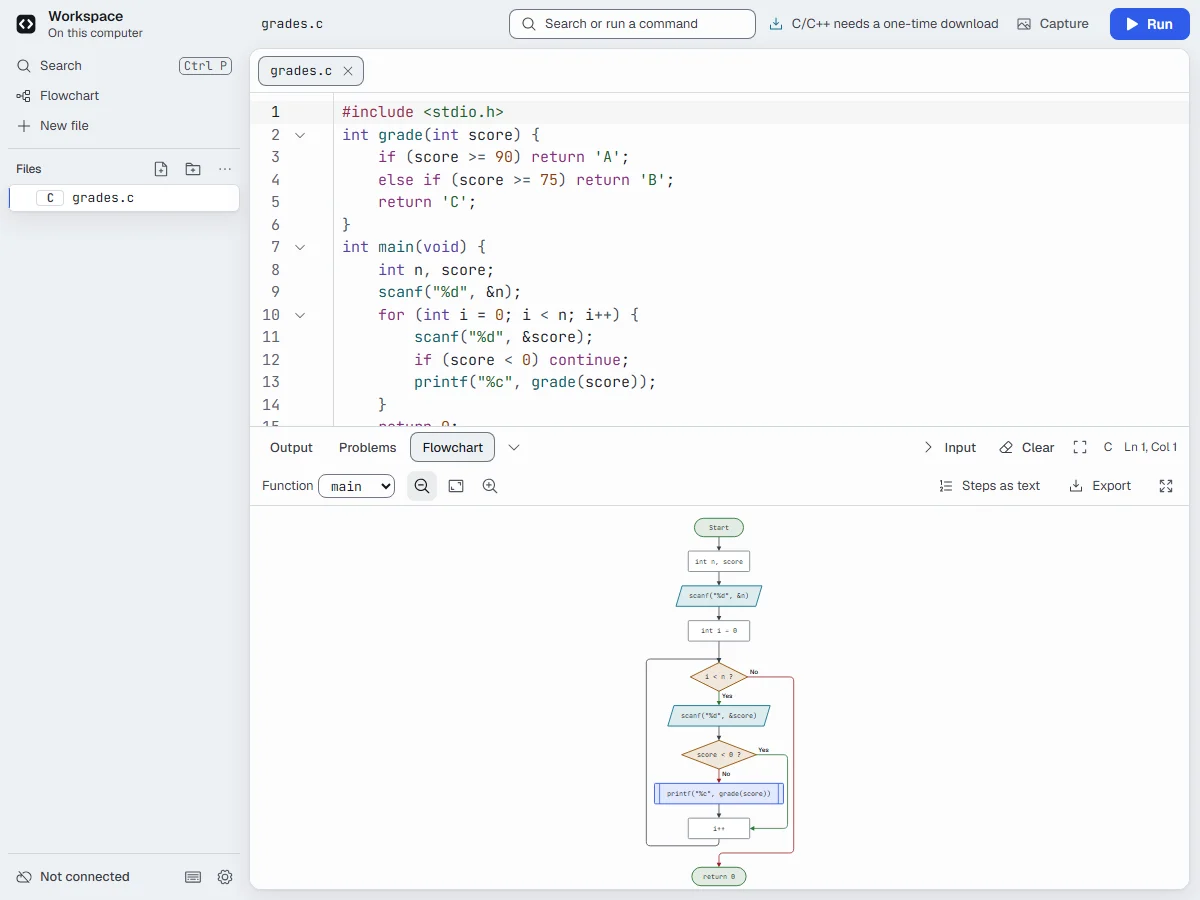
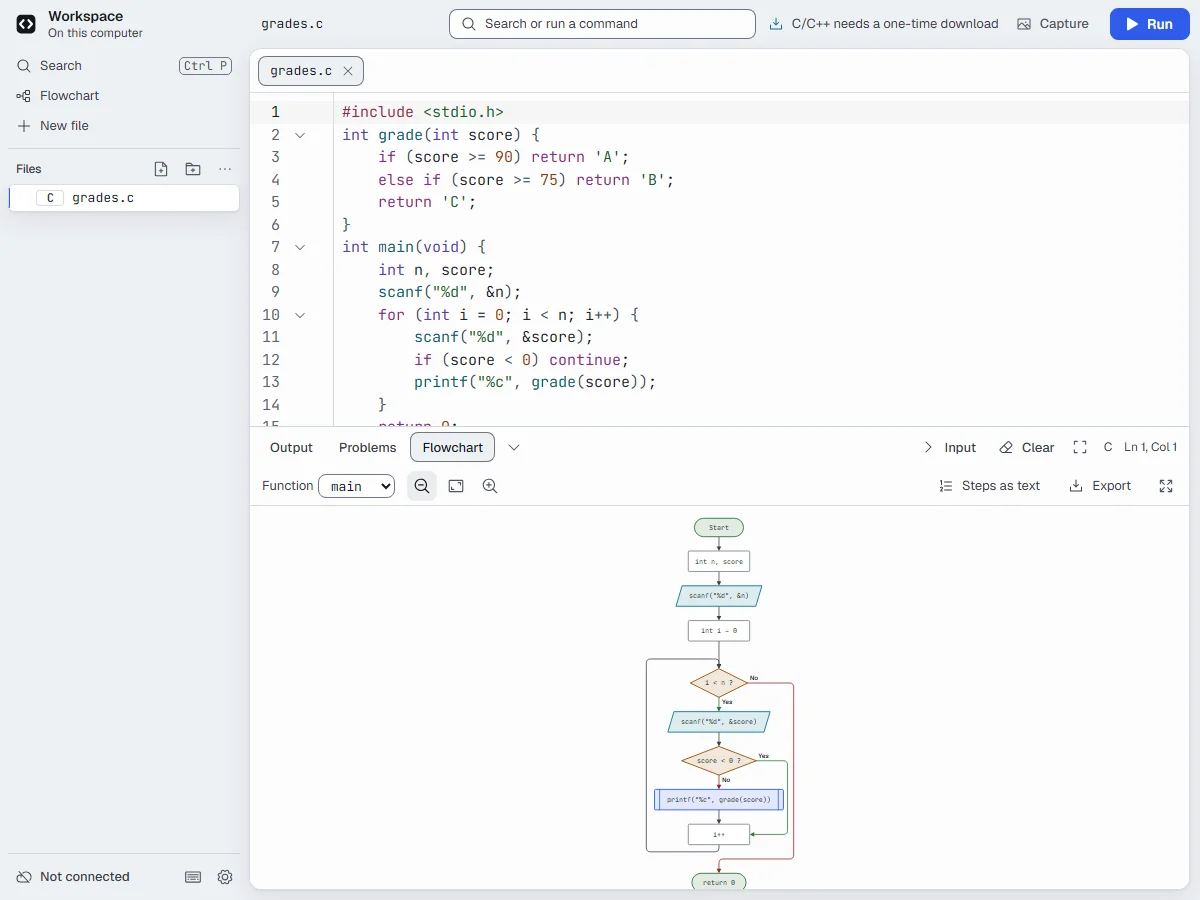
Flowchart arrows meet their boxes: lines join above the arrowhead, not its side
A loop's back edge turned 7 px above the box it enters, inside the 9 px
arrowhead, so the line ran into the head's side. Every edge the layout places
now ends in a straight run of ARROW_ROOM (head 9 + corner 8 + 2): the loop
head, a guard if's Yes branch (14 px before) and a switch case's fall-through
(6 px; the case drop grows to 32 px to keep its channel). Lines the search
finds may still turn sooner into a box's side: those get a head that fits the
leg and a last corner that ends before it. Layout tests check both on every
fixture and 300 random programs (each fails with its fix reverted). The About
page's flowchart images are redrawn.

Changed region(s): [[0.5242, 0.7156, 0.6475, 0.9956], [0.37, 0.0, 0.5858, 0.0311]]

diff --git a/src/flowchart/layout.ts b/src/flowchart/layout.ts
@@ -37,6 +37,11 @@ export interface LaidEdge {
   points: Point[];
   /** Where an edge label's text starts (anchor start) or ends (anchor end), at its baseline. */
   labelAt?: { x: number; y: number; anchor: "start" | "end" };
+  /**
+   * Part of the line was found by the search (a break, a continue, a blocked return): it may turn
+   * into its box sooner than ARROW_ROOM, and the renderer fits it a smaller arrowhead.
+   */
+  searched?: true;
 }
 
 export interface Layout {
@@ -57,8 +62,11 @@ export const METRICS = {
   gapX: 32,
   lane: 16,
   margin: 24,
-  /** Room above a switch column for its case label. */
-  caseDrop: 28,
+  /**
+   * Room above a switch column for its case label, and for a fall-through from the previous case to
+   * join the drop line ARROW_ROOM (19) above the box while staying a CHANNEL (12) below the bus.
+   */
+  caseDrop: 32,
   /** Parallelogram slant and the predefined process's side bars. */
   skew: 12,
   bar: 10,
@@ -68,6 +76,17 @@ const M = METRICS;
 
 /** Two different edges running side by side are this far apart at least, or share the line exactly. */
 export const CHANNEL = 12;
+
+/**
+ * The straight run an edge needs after its last bend: the arrowhead (9 px, render.ts arrowCorners),
+ * the rounded corner before it (up to 8 px, render.ts roundedPath) and 2 px between. Shorter, and the
+ * line meets the head's side instead of its base (a loop's back edge once turned 7 px above its box).
+ */
+export const ARROW_ROOM = 9 + 8 + 2;
+
+/** A loop's head: the back edge joins the line into the loop a quarter gap down, ARROW_ROOM above the box. */
+const LOOP_JOIN = M.gapY / 4;
+export const LOOP_HEAD = LOOP_JOIN + ARROW_ROOM;
 
 /** Edge labels: the renderer's 12 px interface font, about 7 px a character. */
 const LABEL = { charW: 7, ascent: 10, descent: 3, clear: 2 };
@@ -250,7 +269,7 @@ class Builder {
       // Guard: Yes leaves (return, break...) on the right; No carries straight on.
       const pure = yes.H === 0;
       const xYes = pure ? hw : hw + M.gapX / 2 + yes.L;
-      const yYes = pure ? d.h / 2 : d.h / 2 + M.gapY / 2;
+      const yYes = pure ? d.h / 2 : d.h / 2 + Math.max(M.gapY / 2, ARROW_ROOM);
       const H = Math.max(d.h, pure ? 0 : yYes + yes.H + M.gapY / 2);
       // A bare jump is routed later from the tip, past its "Yes" label: keep room for that run, so
       // an enclosing loop's exit lane passes outside it instead of crossing it.
@@ -286,7 +305,7 @@ class Builder {
   }
 
   private loop(step: Extract<Step, { t: "loop" }>): Frame {
-    const J = M.gapY / 2;
+    const J = LOOP_HEAD;
     const body = this.build(step.body);
     const upd = step.update ? this.build(step.update) : null;
     const s = upd ? this.seq([body, upd]) : body;
@@ -606,8 +625,8 @@ class Router {
   }
 
   private routeLoop(f: Extract<Frame, { t: "loop" }>, x: number, y: number, inc: Route[]): Route[] {
-    const J = M.gapY / 2;
-    const junction = y + J / 2;
+    const J = LOOP_HEAD;
+    const junction = y + LOOP_JOIN;
     const back = (r: Route, fromY: number) => extend(r, { x, y: fromY }, { x: x + f.xBack, y: fromY }, { x: x + f.xBack, y: junction }, { x, y: junction }, { x, y: y + J });
     const updateBox = f.update !== null ? this.boxes.get(f.update)! : null;
     const updateGoal = (): { goal: Goal; tail: Point[]; target: number } | null =>
@@ -729,7 +748,9 @@ class Router {
         // Into the next case: down below the columns, right through the gap, up and in from the top.
         const gx = cx + c.colR + M.gapX / 2;
         const next = x + f.cols[i + 1].x;
-        falling = colOut.map((o) => extend(o, { x: cx, y: y + f.ftY }, { x: gx, y: y + f.ftY }, { x: gx, y: colTop - 6 }, { x: next, y: colTop - 6 }, { x: next, y: colTop }));
+        // It joins the next column's drop ARROW_ROOM above the box, so its arrowhead keeps a straight run.
+        const joinY = colTop - ARROW_ROOM;
+        falling = colOut.map((o) => extend(o, { x: cx, y: y + f.ftY }, { x: gx, y: y + f.ftY }, { x: gx, y: joinY }, { x: next, y: joinY }, { x: next, y: colTop }));
       } else {
         falling = [];
         out.push(...colOut.map((o) => (cx === x ? extend(o, { x, y: y + f.H }) : extend(o, { x: cx, y: Math.max(bottom, y + f.collectY) }, { x, y: y + f.collectY }, { x, y: y + f.H }))));
@@ -1201,6 +1222,7 @@ export function layoutChart(chart: FlowChart, { stats, deadline = Infinity }: { 
   }
   const edges: LaidEdge[] = router.done.map((r) => {
     const pts: Point[] = [];
+    const searched = r.legs.some((leg) => !("pts" in leg));
     for (const leg of r.legs) {
       if ("pts" in leg) {
         // After a search, the next fixed leg starts where the search arrived (on the same line).
@@ -1239,6 +1261,7 @@ export function layoutChart(chart: FlowChart, { stats, deadline = Infinity }: { 
     const edge: LaidEdge = { from: r.from, to: r.to!, kind, points: simplify(pts) };
     if (r.label !== undefined) edge.label = r.label;
     if (r.labelAt) edge.labelAt = r.labelAt;
+    if (searched) edge.searched = true;
     return edge;
   });
   placeLabels(edges, boxes, new Map(router.done.flatMap((r, i) => (r.labelOnDrop ? [[i, r.labelOnDrop] as const] : []))));

diff --git a/src/flowchart/render.ts b/src/flowchart/render.ts
@@ -94,15 +94,18 @@ function styles(look: ChartLook): Styles {
   };
 }
 
-/** An orthogonal polyline as a path whose corners are arcs of up to `r` (half the shorter leg at most). */
-export function roundedPath(points: Point[], r = 8): string {
+/**
+ * An orthogonal polyline as a path whose corners are arcs of up to `r` (half the shorter leg at most);
+ * the last corner up to `lastR`, so its curve ends before the arrowhead's base.
+ */
+export function roundedPath(points: Point[], r = 8, lastR = r): string {
   if (points.length < 3) return `M${pts(points).replaceAll(" ", " L")}`;
   let d = `M${points[0].x},${points[0].y}`;
   for (let i = 1; i < points.length - 1; i++) {
     const [a, b, c] = [points[i - 1], points[i], points[i + 1]];
     const inLen = Math.hypot(b.x - a.x, b.y - a.y);
     const outLen = Math.hypot(c.x - b.x, c.y - b.y);
-    const k = Math.min(r, inLen / 2, outLen / 2);
+    const k = Math.min(r, i === points.length - 2 ? lastR : r, inLen / 2, outLen / 2);
     if (k < 0.5) {
       d += ` L${b.x},${b.y}`;
       continue;
@@ -190,14 +193,31 @@ function label(doc: SvgDocument, node: FlowNode, b: LaidBox, STYLE: Styles): SVG
   return text;
 }
 
+/** The last leg's length in px. */
+function lastLeg(edge: LaidEdge): number {
+  const [end, before] = [edge.points[edge.points.length - 1], edge.points[edge.points.length - 2]];
+  return Math.hypot(end.x - before.x, end.y - before.y);
+}
+
+/**
+ * The arrowhead's length: 9 px, or on an edge whose last leg is too short for it and a corner (a
+ * searched line into a box's side can arrive 4 px after its bend) as long as the leg allows, 4 px
+ * at least, so the line still meets the head's base instead of its side.
+ */
+export function arrowLength(edge: LaidEdge): number {
+  if (edge.points.length < 3) return 9;
+  const leg = lastLeg(edge);
+  return Math.min(9, Math.max(Math.min(4, leg), leg - 2));
+}
+
 /** A filled triangle at the end of the edge, pointing the way its last segment goes. */
 export function arrowCorners(edge: LaidEdge): Point[] {
   const end = edge.points[edge.points.length - 1];
   const before = edge.points[edge.points.length - 2];
   const dx = Math.sign(end.x - before.x);
   const dy = Math.sign(end.y - before.y);
-  const len = 9;
-  const half = 4.5;
+  const len = arrowLength(edge);
+  const half = len / 2;
   const back = { x: end.x - dx * len, y: end.y - dy * len };
   return [end, { x: back.x + dy * half, y: back.y + dx * half }, { x: back.x - dy * half, y: back.y - dx * half }];
 }
@@ -226,12 +246,15 @@ export function renderChart(chart: FlowChart, layout: Layout, doc: SvgDocument =
   const edges = el(doc, "g", live ? { "data-part": "edges", "aria-hidden": "true" } : {});
   for (const e of layout.edges) {
     const g = el(doc, "g", live ? { "data-from": e.from, "data-to": e.to, "data-kind": e.kind } : {});
-    // The line stops where the arrowhead starts, so the head's point stays sharp at the box.
+    // The line stops inside the arrowhead (3 px short of its base, under the fill), so the head's
+    // point stays sharp at the box; the last corner's curve ends before the head's base.
     const line = [...e.points];
     const [end, before] = [line[line.length - 1], line[line.length - 2]];
-    const run = Math.hypot(end.x - before.x, end.y - before.y);
-    if (run > 9) line[line.length - 1] = { x: end.x - ((end.x - before.x) / run) * 6, y: end.y - ((end.y - before.y) / run) * 6 };
-    g.appendChild(el(doc, "path", { d: roundedPath(line), style: STYLE.edge(edgeHue(e.label)) }));
+    const run = lastLeg(e);
+    const head = arrowLength(e);
+    const cut = head - 3;
+    if (run > head) line[line.length - 1] = { x: end.x - ((end.x - before.x) / run) * cut, y: end.y - ((end.y - before.y) / run) * cut };
+    g.appendChild(el(doc, "path", { d: roundedPath(line, 8, Math.max(0, run - head)), style: STYLE.edge(edgeHue(e.label)) }));
     g.appendChild(arrow(doc, e, STYLE, live));
     if (e.label !== undefined && e.labelAt) {
       const t = el(doc, "text", { x: e.labelAt.x, y: e.labelAt.y, "text-anchor": e.labelAt.anchor, style: STYLE.edgeLabel });

diff --git a/src/flowchart/render.test.ts b/src/flowchart/render.test.ts
@@ -4,9 +4,9 @@
 // outline of the steps in reading order.
 import { readFileSync } from "node:fs";
 import { describe, expect, it } from "vitest";
-import { layoutChart } from "./layout";
+import { layoutChart, type LaidEdge } from "./layout";
 import type { FlowChart } from "./model";
-import { renderChart, stepList } from "./render";
+import { arrowCorners, arrowLength, renderChart, roundedPath, stepList } from "./render";
 import { FakeElement, fakeDocument, serialize } from "./fixtures/fake-dom";
 import { chartFile, fixture, ok, withPack } from "./fixtures/harness";
 
@@ -185,5 +185,49 @@ describe("flowchart renderer", () => {
       "5. at = 0 (never reached). Next: step 6.",
       "6. End (never reached).",
     ]);
+  });
+
+  // The line always meets the arrowhead's base: a 9 px head when the last leg has room for it and a
+  // corner, a smaller one (5 px at least) when a searched jump turns into a box's side just before it.
+  it("arrowheads fit their last leg, and the last corner's curve ends before the head", () => {
+    const edge = (points: { x: number; y: number }[]): LaidEdge => ({ from: 1, to: 2, kind: "jump", points });
+    const roomy = edge([{ x: 0, y: 0 }, { x: 100, y: 0 }, { x: 100, y: 40 }]);
+    expect(arrowLength(roomy)).toBe(9);
+    expect(arrowCorners(roomy)).toEqual([{ x: 100, y: 40 }, { x: 104.5, y: 31 }, { x: 95.5, y: 31 }]);
+    const tight = edge([{ x: 0, y: 0 }, { x: 0, y: 30 }, { x: -4, y: 30 }]);
+    expect(arrowLength(tight)).toBe(4);
+    expect(arrowCorners(tight)[0]).toEqual({ x: -4, y: 30 });
+    expect(arrowLength(edge([{ x: 0, y: 0 }, { x: 0, y: 30 }, { x: 8, y: 30 }]))).toBe(6);
+    // A straight edge keeps the full head.
+    expect(arrowLength(edge([{ x: 0, y: 0 }, { x: 0, y: 5 }]))).toBe(9);
+    // roundedPath: every corner up to r, the last up to lastR (0 draws a sharp corner).
+    const pts3 = [{ x: 0, y: 0 }, { x: 0, y: 40 }, { x: 40, y: 40 }, { x: 40, y: 60 }];
+    expect(roundedPath(pts3, 8, 0)).toBe("M0,0 L0,32 Q0,40 8,40 L40,40 L40,60");
+    expect(roundedPath(pts3, 8, 3)).toBe("M0,0 L0,32 Q0,40 8,40 L37,40 Q40,40 40,43 L40,60");
+    // A roomy last leg still keeps every corner within r.
+    expect(roundedPath([{ x: 0, y: 0 }, { x: 0, y: 40 }, { x: 60, y: 40 }], 8, 50)).toBe("M0,0 L0,32 Q0,40 8,40 L60,40");
+  });
+
+  test("on every fixture chart, each edge's last curve ends before its arrowhead's base", async () => {
+    for (const name of ["break-continue.c", "nested-loops.c", "switch.c", "do-forever.c", "early-return.c", "else-if.c"]) {
+      for (const c of (await chartFile("c", fixture(name))).charts) {
+        if (!c.ok) continue;
+        const layout = layoutChart(ok(c));
+        const svg = renderChart(ok(c), layout, fakeDocument as unknown as Document) as unknown as FakeElement;
+        const groups = svg.all().filter((e) => e.tagName === "g" && e.getAttribute("data-from") !== null);
+        expect(groups).toHaveLength(layout.edges.length);
+        layout.edges.forEach((e, i) => {
+          const d = groups[i].children.find((x): x is FakeElement => x instanceof FakeElement && x.tagName === "path")!.getAttribute("d")!;
+          const [end, before] = [e.points.at(-1)!, e.points.at(-2)!];
+          const run = Math.hypot(end.x - before.x, end.y - before.y);
+          // The last Q (the last corner) ends where the final straight run starts: at least a head away from the end.
+          const lastQ = [...d.matchAll(/Q[-\d.]+,[-\d.]+ ([-\d.]+),([-\d.]+)/g)].at(-1);
+          if (!lastQ || e.points.length < 3) return;
+          const qEnd = { x: Number(lastQ[1]), y: Number(lastQ[2]) };
+          const fromEnd = Math.hypot(end.x - qEnd.x, end.y - qEnd.y);
+          expect(fromEnd, `${name} ${c.name} edge ${e.from}>${e.to}: run ${run}`).toBeGreaterThanOrEqual(arrowLength(e) - 0.001);
+        });
+      }
+    }
   });
 });

diff --git a/src/flowchart/layout.test.ts b/src/flowchart/layout.test.ts
@@ -4,8 +4,9 @@
 // run outside their loop, and the same model always gives the same layout.
 import { readdirSync } from "node:fs";
 import { describe, expect, it } from "vitest";
-import { CHANNEL, LAYOUT_BUDGET, labelRect, layoutChart, rectMeetsBox, type Layout, type LayoutStats, type LaidBox, type Point } from "./layout";
+import { ARROW_ROOM, CHANNEL, LAYOUT_BUDGET, labelRect, layoutChart, rectMeetsBox, type Layout, type LayoutStats, type LaidBox, type Point } from "./layout";
 import { TooBig, entryOf, type FlowChart, type Step } from "./model";
+import { arrowLength } from "./render";
 import { chartFile, fixture, ok, withPack } from "./fixtures/harness";
 import { randomProgram } from "./fixtures/random";
 import type { FlowLanguage } from "./pack";
@@ -129,6 +130,16 @@ function problems(chart: FlowChart, layout: Layout, name: string): string[] {
         if ((a.x === p.x && p.x === q.x) || (a.y === p.y && p.y === q.y)) out.push(`${tag} doubles back at ${p.x},${p.y}`);
       }
       for (const b of layout.boxes) if (hits(p, q, b)) out.push(`${tag} runs through box ${b.id}`);
+    }
+    // An edge that bends ends in a straight leg long enough for its arrowhead (9 px) and the rounded
+    // corner before it (up to 8 px): shorter, and the line meets the head's side, not its base. A
+    // line the search found may turn into its box sooner: the renderer fits it a smaller head, which
+    // must still fit the leg (render.ts arrowLength).
+    if (pts.length >= 3) {
+      const [p, q] = [pts.at(-2)!, pts.at(-1)!];
+      const leg = Math.abs(q.x - p.x) + Math.abs(q.y - p.y);
+      if (!e.searched && leg < ARROW_ROOM) out.push(`${tag} ends in a ${leg} px leg, too short for its arrowhead: ${pts.map((p) => `${p.x},${p.y}`).join(" ")} (${e.kind})`);
+      if (arrowLength(e) > leg) out.push(`${tag}'s ${arrowLength(e)} px arrowhead overruns its ${leg} px last leg`);
     }
     if (pts.length && !onBorder(pts[0], box.get(e.from)!)) out.push(`${tag} doesn't start on its box`);
     if (pts.length && !onBorder(pts.at(-1)!, box.get(e.to)!)) out.push(`${tag} doesn't end on its target`);

diff --git a/src/about/changelog.ts b/src/about/changelog.ts
@@ -24,6 +24,7 @@ export const CHANGELOG: readonly Release[] = [
       { kind: "changed", text: "Settings is now a two-pane dialog with sections, switches and a font-size stepper." },
       { kind: "changed", text: "Files your program writes are saved to your files by themselves, with a line in Output instead of a question. A program never writes over your code." },
       { kind: "changed", text: "Flowcharts in colour: start and end, decisions, input and output, and calls each have their own, and Yes and No branches are green and red, on connectors with rounded corners." },
+      { kind: "fixed", text: "Flowchart arrows meet their boxes cleanly: a loop's line back, an if's Yes branch and a switch case's fall-through join the line above the arrowhead, not its side." },
       { kind: "added", text: "The version number in Settings, and a one-time What's new note after an update." },
       { kind: "added", text: "An About page: what CodeEditor does, and this list of changes." },
     ],

diff --git a/CHANGELOG.md b/CHANGELOG.md
@@ -22,6 +22,10 @@ A calmer workspace, a new Settings, and an About page
 - Files your program writes are saved to your files by themselves, with a line in Output instead of a question. A program never writes over your code.
 - Flowcharts in colour: start and end, decisions, input and output, and calls each have their own, and Yes and No branches are green and red, on connectors with rounded corners.
 
+### Fixed
+
+- Flowchart arrows meet their boxes cleanly: a loop's line back, an if's Yes branch and a switch case's fall-through join the line above the arrowhead, not its side.
+
 ## [0.6.2] - 2026-10-27
 
 Phone tabs fit small screens
